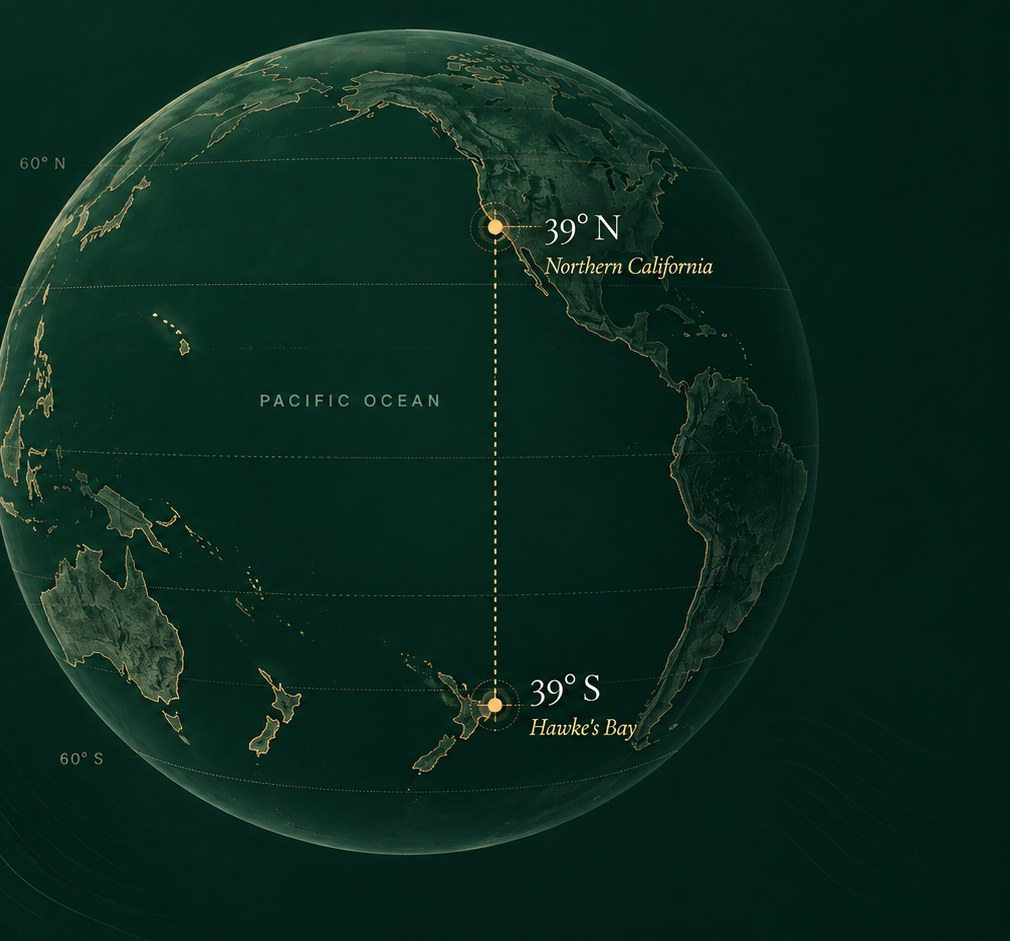
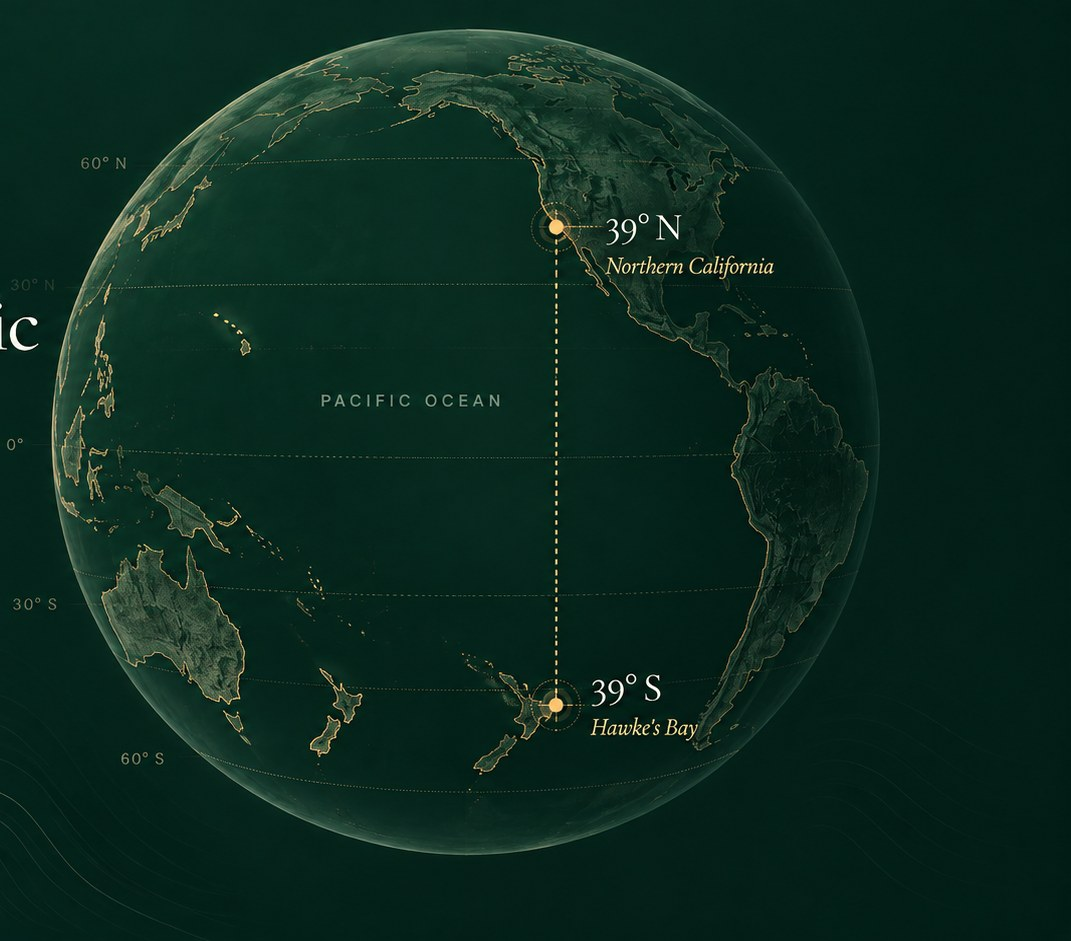
Cultivation: the whole globe, rim and all
The crop had started inside the globe's left rim. It now starts at the
illustration's headline edge, measured from the globe itself, so the full
circle is in; the half-cut latitude labels in that strip are cleared.

diff --git a/cultivation.html b/cultivation.html
@@ -1506,7 +1506,7 @@ html.no-video .hero-scroll{opacity:1;}
 .cl-par .cl-p{color:rgba(243,241,235,0.72);}
 .cl-question{margin:var(--s5) 0 0;font-family:var(--font-h);font-weight:300;font-size:clamp(1.5rem,2.4vw,2.2rem);line-height:1.25;max-width:22ch;color:var(--starlight);}
 .cl-par{background:#0a0d0c;}
-.cl-globe{margin:0;position:relative;aspect-ratio:1010/941;min-height:0;}
+.cl-globe{margin:0;position:relative;aspect-ratio:1071/941;min-height:0;}
 .cl-globe img{width:100%;height:100%;object-fit:cover;display:block;}
 
 /* 6 · CAPACITY - a moment of clarity: four numbers, then the statement */
@@ -1742,7 +1742,7 @@ html.no-video .hero-scroll{opacity:1;}
         <p class="cl-question reveal d3">What can exceptional cannabis expression look like in Hawke’s Bay?</p>
       </div>
       <figure class="cl-globe reveal d1">
-        <img src="assets/aho-39th-parallel-globe.webp" alt="A globe of the Pacific in deep green and gold, lines of latitude marked: Northern California at 39° north, Hawke’s Bay at 39° south, one dashed line joining them across the ocean" width="1010" height="941" loading="lazy">
+        <img src="assets/aho-39th-parallel-globe.webp" alt="A globe of the Pacific in deep green and gold, lines of latitude marked: Northern California at 39° north, Hawke’s Bay at 39° south, one dashed line joining them across the ocean" width="1071" height="941" loading="lazy">
       </figure>
     </div>
   </section>
